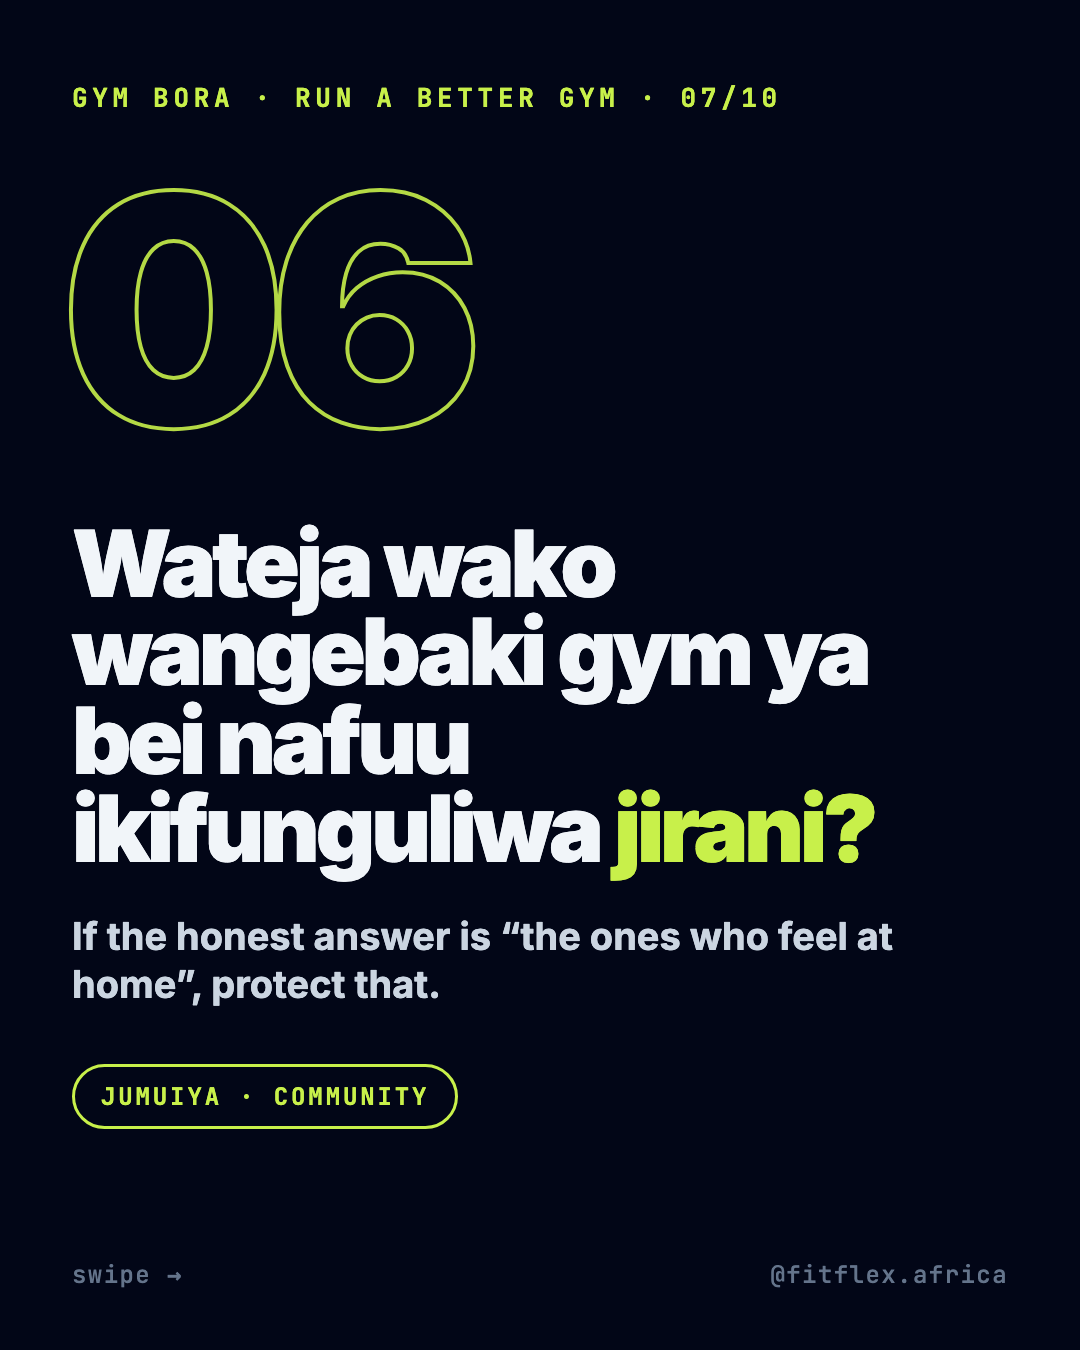
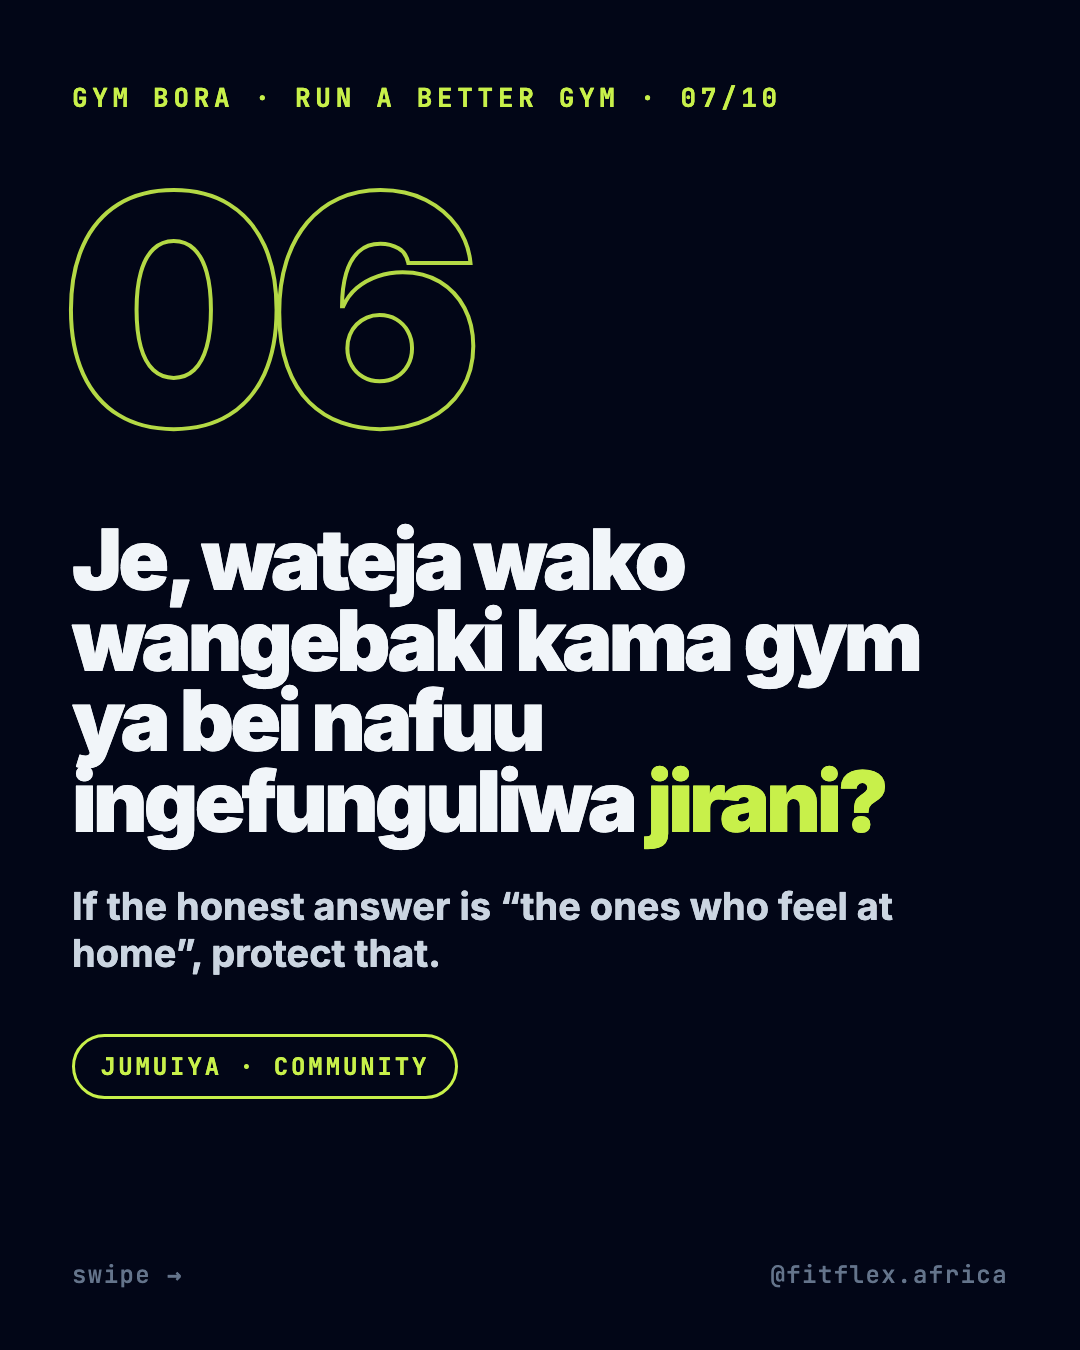
ops(social): eight-shifts v3 brand-checked (review line), three Swahili lines tightened; swap awaits owner approval

Changed region(s): [[0.0611, 0.3733, 0.8556, 0.7467], [0.0611, 0.7778, 0.4278, 0.84]]

diff --git a/social/content/2026-10-W5-A-owners/source/E04.html b/social/content/2026-10-W5-A-owners/source/E04.html
@@ -13,4 +13,4 @@
  .row{display:flex;align-items:center;gap:26px;padding:26px 0;border-bottom:2px solid #1E293B}.row .mark{width:64px;height:64px;border-radius:50%;display:flex;align-items:center;justify-content:center;font-weight:900;font-size:40px}.row .t{font-weight:900;font-size:64px;letter-spacing:-2px}.row .t small{display:block;font-weight:700;font-size:28px;letter-spacing:0;color:#94A3B8}
  .card{position:absolute;left:72px;right:72px;top:300px;background:#0F172A;border:2px solid #1E293B;border-radius:36px;padding:64px}
  .bar{position:absolute;left:72px;top:150px;width:120px;height:12px;border-radius:6px;background:#C8F04A}
- </style></head><body><div class="eyebrow">Gym bora · run a better gym · 04/10</div><div class="bar"></div><div style="position:absolute;left:72px;right:72px;top:200px"><h1 style="font-size:92px">Wanachama tayari wanalipa kwa <em>simu.</em></h1><div class="en" style="margin-top:28px">Members already pay by phone. Cash only is the exception.</div></div><div style="position:absolute;left:72px;right:72px;top:540px"><div class="row"><div class="mark" style="background:#C8F04A;color:#020617">✓</div><div class="t">M-Pesa<small>accepted</small></div></div><div class="row"><div class="mark" style="background:#C8F04A;color:#020617">✓</div><div class="t">Airtel Money<small>accepted</small></div></div><div class="row"><div class="mark" style="background:#C8F04A;color:#020617">✓</div><div class="t">Tigo Pesa<small>accepted</small></div></div><div class="row"><div class="mark" style="background:#FF8A6B;color:#020617">✕</div><div class="t">Cash tu<small>the exception</small></div></div></div><div class="swipe">swipe →</div><div class="handle">@fitflex.africa</div></body></html>
+ </style></head><body><div class="eyebrow">Gym bora · run a better gym · 04/10</div><div class="bar"></div><div style="position:absolute;left:72px;right:72px;top:200px"><h1 style="font-size:92px">Wanachama tayari wanalipa kwa <em>simu.</em></h1><div class="en" style="margin-top:28px">Members already pay by phone. Cash only is the exception.</div></div><div style="position:absolute;left:72px;right:72px;top:540px"><div class="row"><div class="mark" style="background:#C8F04A;color:#020617">✓</div><div class="t">M-Pesa<small>accepted</small></div></div><div class="row"><div class="mark" style="background:#C8F04A;color:#020617">✓</div><div class="t">Airtel Money<small>accepted</small></div></div><div class="row"><div class="mark" style="background:#C8F04A;color:#020617">✓</div><div class="t">Tigo Pesa<small>accepted</small></div></div><div class="row"><div class="mark" style="background:#FF8A6B;color:#020617">✕</div><div class="t">Pesa taslimu tu<small>the exception</small></div></div></div><div class="swipe">swipe →</div><div class="handle">@fitflex.africa</div></body></html>

diff --git a/social/content/2026-10-W5-A-owners/source/E07.html b/social/content/2026-10-W5-A-owners/source/E07.html
@@ -13,4 +13,4 @@
  .row{display:flex;align-items:center;gap:26px;padding:26px 0;border-bottom:2px solid #1E293B}.row .mark{width:64px;height:64px;border-radius:50%;display:flex;align-items:center;justify-content:center;font-weight:900;font-size:40px}.row .t{font-weight:900;font-size:64px;letter-spacing:-2px}.row .t small{display:block;font-weight:700;font-size:28px;letter-spacing:0;color:#94A3B8}
  .card{position:absolute;left:72px;right:72px;top:300px;background:#0F172A;border:2px solid #1E293B;border-radius:36px;padding:64px}
  .bar{position:absolute;left:72px;top:150px;width:120px;height:12px;border-radius:6px;background:#C8F04A}
- </style></head><body><div class="eyebrow">Gym bora · run a better gym · 07/10</div><div class="numeral">06</div><div style="position:absolute;left:72px;right:72px;top:520px"><h1 style="font-size:92px">Wateja wako wangebaki gym ya bei nafuu ikifunguliwa <em>jirani?</em></h1><div class="en" style="margin-top:40px;max-width:900px">If the honest answer is “the ones who feel at home”, protect that.</div><div style="margin-top:56px"><span class="chip">Jumuiya · community</span></div></div><div class="swipe">swipe →</div><div class="handle">@fitflex.africa</div></body></html>
+ </style></head><body><div class="eyebrow">Gym bora · run a better gym · 07/10</div><div class="numeral">06</div><div style="position:absolute;left:72px;right:72px;top:520px"><h1 style="font-size:84px">Je, wateja wako wangebaki kama gym ya bei nafuu ingefunguliwa <em>jirani?</em></h1><div class="en" style="margin-top:40px;max-width:900px">If the honest answer is “the ones who feel at home”, protect that.</div><div style="margin-top:56px"><span class="chip">Jumuiya · community</span></div></div><div class="swipe">swipe →</div><div class="handle">@fitflex.africa</div></body></html>

diff --git a/social/content/2026-10-W5-A-owners/source/E08.html b/social/content/2026-10-W5-A-owners/source/E08.html
@@ -13,4 +13,4 @@
  .row{display:flex;align-items:center;gap:26px;padding:26px 0;border-bottom:2px solid #1E293B}.row .mark{width:64px;height:64px;border-radius:50%;display:flex;align-items:center;justify-content:center;font-weight:900;font-size:40px}.row .t{font-weight:900;font-size:64px;letter-spacing:-2px}.row .t small{display:block;font-weight:700;font-size:28px;letter-spacing:0;color:#94A3B8}
  .card{position:absolute;left:72px;right:72px;top:300px;background:#0F172A;border:2px solid #1E293B;border-radius:36px;padding:64px}
  .bar{position:absolute;left:72px;top:150px;width:120px;height:12px;border-radius:6px;background:#C8F04A}
- </style></head><body><div class="eyebrow">Gym bora · run a better gym · 08/10</div><div class="numeral">07</div><div style="position:absolute;left:72px;right:72px;top:520px"><h1 style="font-size:104px">Trainer wanataka booking na malipo <em>sehemu moja.</em></h1><div class="en" style="margin-top:40px;max-width:900px">Give them that and you give them a reason to stay.</div><div style="margin-top:56px"><span class="chip">Trainer · trainers</span></div></div><div class="swipe">swipe →</div><div class="handle">@fitflex.africa</div></body></html>
+ </style></head><body><div class="eyebrow">Gym bora · run a better gym · 08/10</div><div class="numeral">07</div><div style="position:absolute;left:72px;right:72px;top:520px"><h1 style="font-size:104px">Trainer anataka booking na malipo <em>sehemu moja.</em></h1><div class="en" style="margin-top:40px;max-width:900px">Give them that and you give them a reason to stay.</div><div style="margin-top:56px"><span class="chip">Trainer · trainers</span></div></div><div class="swipe">swipe →</div><div class="handle">@fitflex.africa</div></body></html>

diff --git a/social/content/2026-10-W5-A-owners/brief.md b/social/content/2026-10-W5-A-owners/brief.md
@@ -29,11 +29,11 @@ Template v3 (rotation: ISO week 44 = type-first bilingual). Dark cover (the Thur
 | 1 | cover | SW: Wamiliki wa gym Dar wanaangalia namba zisizo sahihi. — EN: Dar gym owners are watching the wrong numbers. | none |
 | 2 | rule | SW: Ziara ndiyo namba, si usajili. — EN: A member who joined and stopped coming is a cancellation you haven't seen yet. | none |
 | 3 | rule | SW: Je, daftari ndilo tatizo? — EN: If your gym runs on WhatsApp, a notebook and cash, nobody can see who's slipping. | none |
-| 4 | check | SW: Wanachama tayari wanalipa kwa simu. — EN: Members already pay by phone. Cash only is the exception. Rows: M-Pesa, Airtel Money, Tigo Pesa, Cash tu | none |
+| 4 | check | SW: Wanachama tayari wanalipa kwa simu. — EN: Members already pay by phone. Cash only is the exception. Rows: M-Pesa, Airtel Money, Tigo Pesa, Pesa taslimu tu | none |
 | 5 | rule | SW: Mlango wako wa mbele ni skrini ya simu. — EN: Find the gym, check in with a QR, book a trainer. If it's slow, they feel it before you do. | none |
 | 6 | rule | SW: Hakuna anayesema kwaheri. — EN: Nobody says goodbye. The only early signal is fewer visits. | none |
-| 7 | rule | SW: Wateja wako wangebaki gym ya bei nafuu ikifunguliwa jirani? — EN: If the honest answer is "the ones who feel at home", protect that. | none |
-| 8 | rule | SW: Trainer wanataka booking na malipo sehemu moja. — EN: Give them that and you give them a reason to stay. | none |
+| 7 | rule | SW: Je, wateja wako wangebaki kama gym ya bei nafuu ingefunguliwa jirani? — EN: If the honest answer is "the ones who feel at home", protect that. | none |
+| 8 | rule | SW: Trainer anataka booking na malipo sehemu moja. — EN: Give them that and you give them a reason to stay. | none |
 | 9 | rule | SW: Gym zilizo kwenye mtandao zinapata wateja wasiowatangazia. — EN: Travellers and multi-gym members choose from the network. | none |
 | 10 | cta | SW: Una gym Dar es Salaam? Andika — EN: Own a gym in Dar es Salaam? Comment PARTNER. Tutakutumia DM jinsi FitFlex inavyofanya kazi. | none |
 
